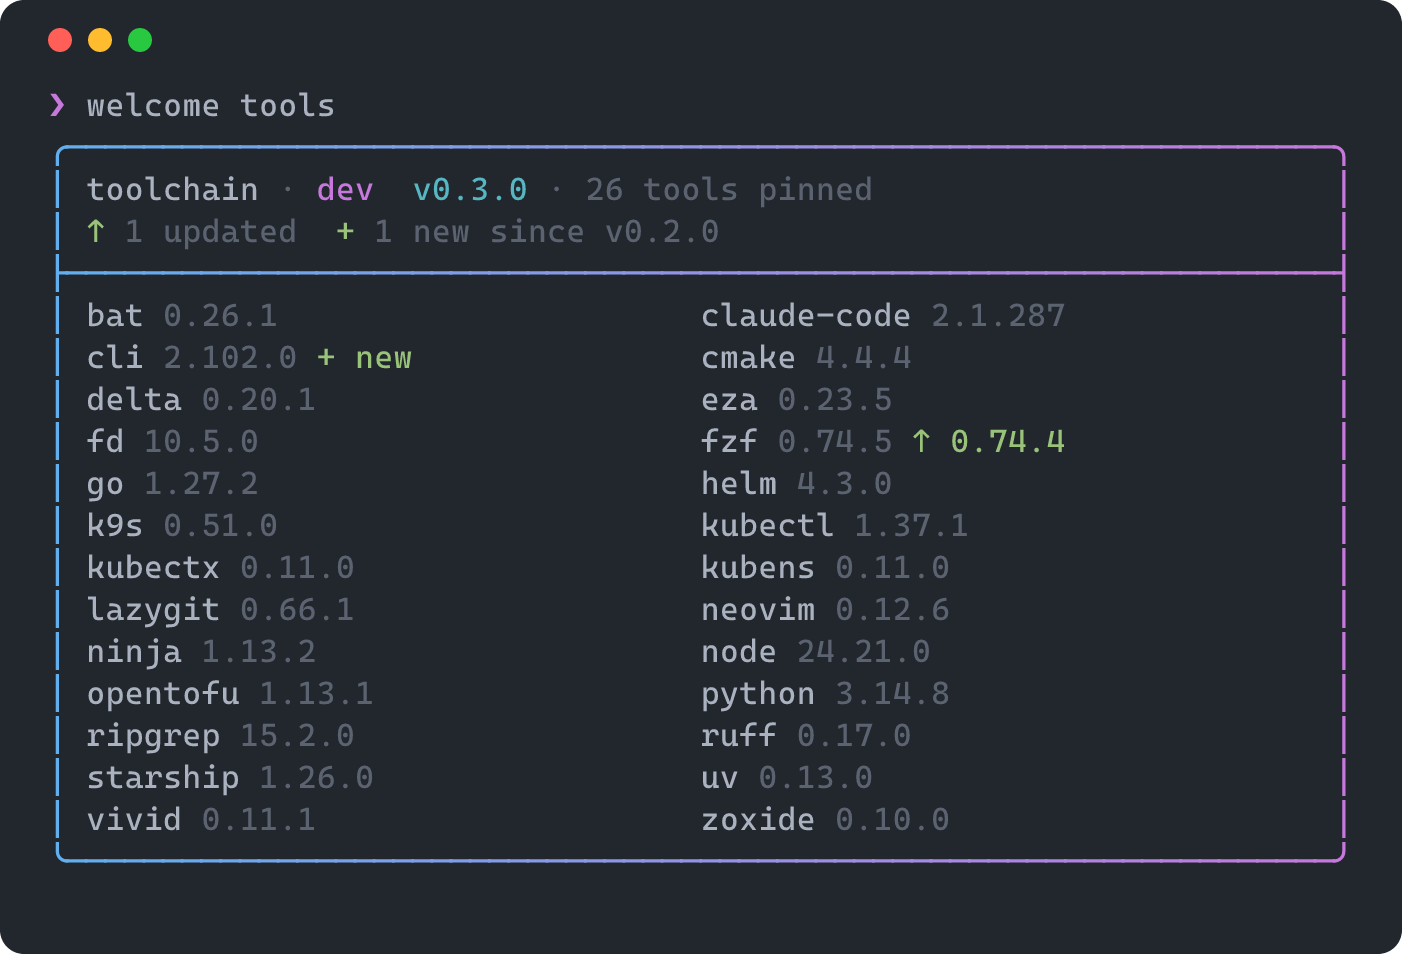
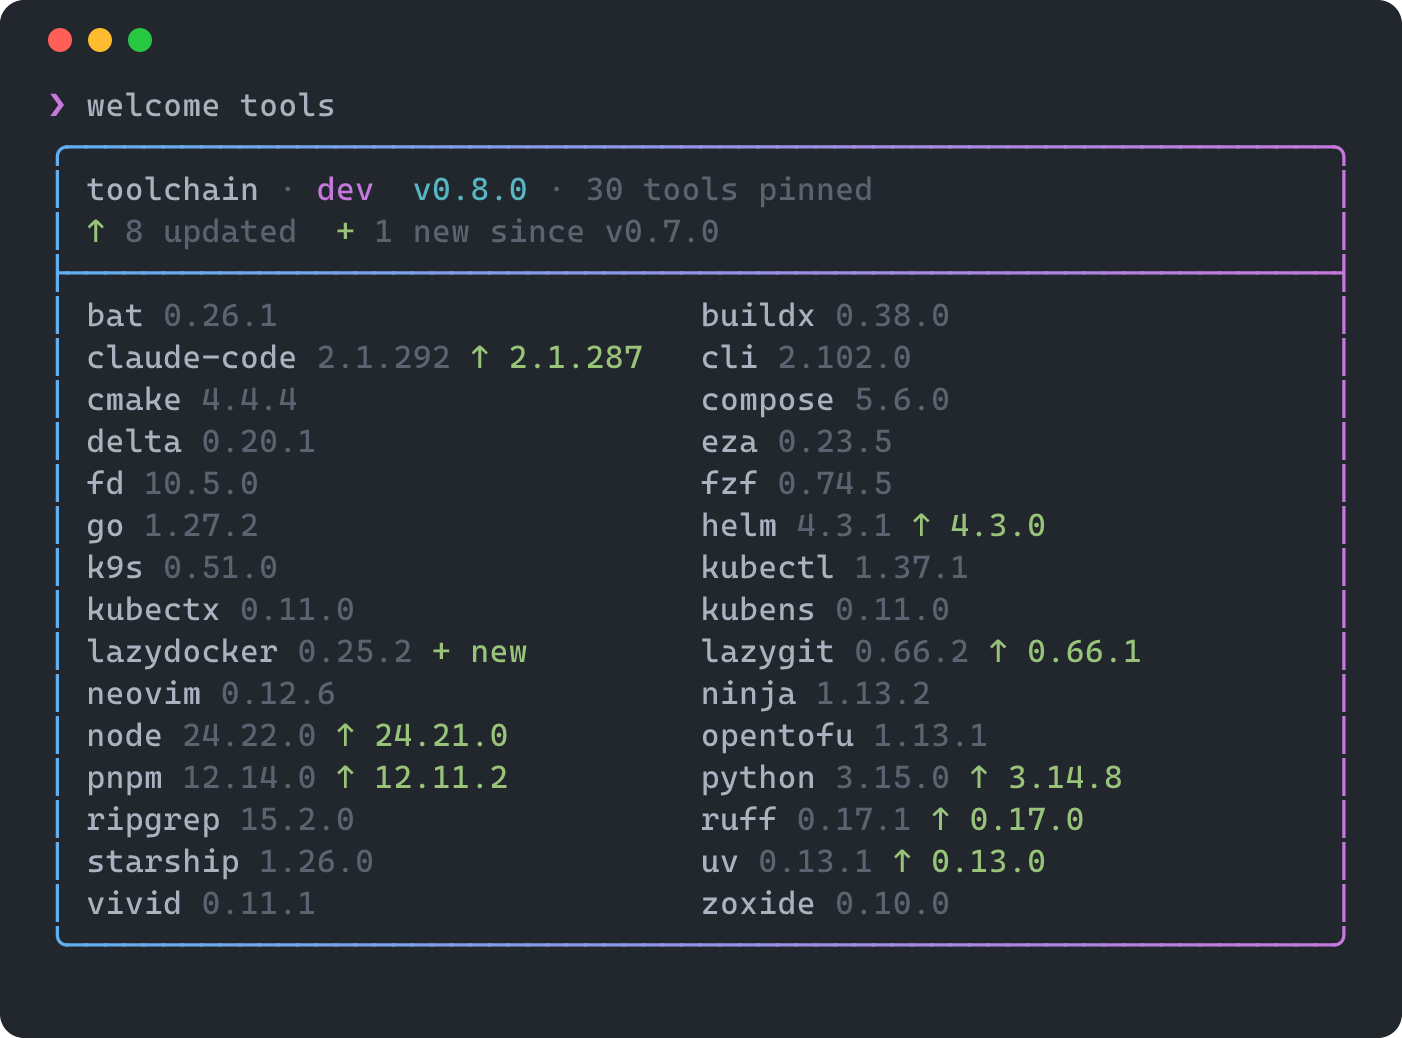
feat(toolchain): add lazydocker to the dev image
A terminal UI for the Docker engine, next to lazygit, for the many consumers
that work with Docker, Compose and dev containers. Dev-only, like lazygit;
`lzd` opens it, and the welcome screen lists it.

Refs: #40

diff --git a/README.md b/README.md
@@ -18,10 +18,10 @@ tool manifest, so "it works in my dev container" means "it works in CI".
 
 ## What's inside
 
-| Image | Contents                                                                                                                                                                                                                                                                                                                                                                                 |
-| ----- | ---------------------------------------------------------------------------------------------------------------------------------------------------------------------------------------------------------------------------------------------------------------------------------------------------------------------------------------------------------------------------------------- |
-| `ci`  | Debian 13 (trixie) slim · OpenTofu · kubectl · Helm · Python + uv + Ruff · Go · Node.js · CMake + Ninja · GCC/Clang toolchain                                                                                                                                                                                                                                                            |
-| `dev` | Everything in `ci`, plus: zsh with a modular config and a welcome screen · starship · fzf, zoxide, eza, bat, fd, ripgrep · Docker CLI with buildx and compose (host engine or Docker-in-Docker) · delta, lazygit, GitHub CLI · pnpm · kubectx/kubens, k9s · Neovim · clangd, lldb, gdb · Claude Code with a secure default policy · VS Code extensions and settings for all of the above |
+| Image | Contents                                                                                                                                                                                                                                                                                                                                                                                             |
+| ----- | ---------------------------------------------------------------------------------------------------------------------------------------------------------------------------------------------------------------------------------------------------------------------------------------------------------------------------------------------------------------------------------------------------- |
+| `ci`  | Debian 13 (trixie) slim · OpenTofu · kubectl · Helm · Python + uv + Ruff · Go · Node.js · CMake + Ninja · GCC/Clang toolchain                                                                                                                                                                                                                                                                        |
+| `dev` | Everything in `ci`, plus: zsh with a modular config and a welcome screen · starship · fzf, zoxide, eza, bat, fd, ripgrep · Docker CLI with buildx and compose (host engine or Docker-in-Docker) · delta, lazygit, lazydocker, GitHub CLI · pnpm · kubectx/kubens, k9s · Neovim · clangd, lldb, gdb · Claude Code with a secure default policy · VS Code extensions and settings for all of the above |
 
 Exact versions are in [`toolchain/mise.toml`](toolchain/mise.toml) and
 [`toolchain/dev/mise.toml`](toolchain/dev/mise.toml) (with the shell's own tools in
